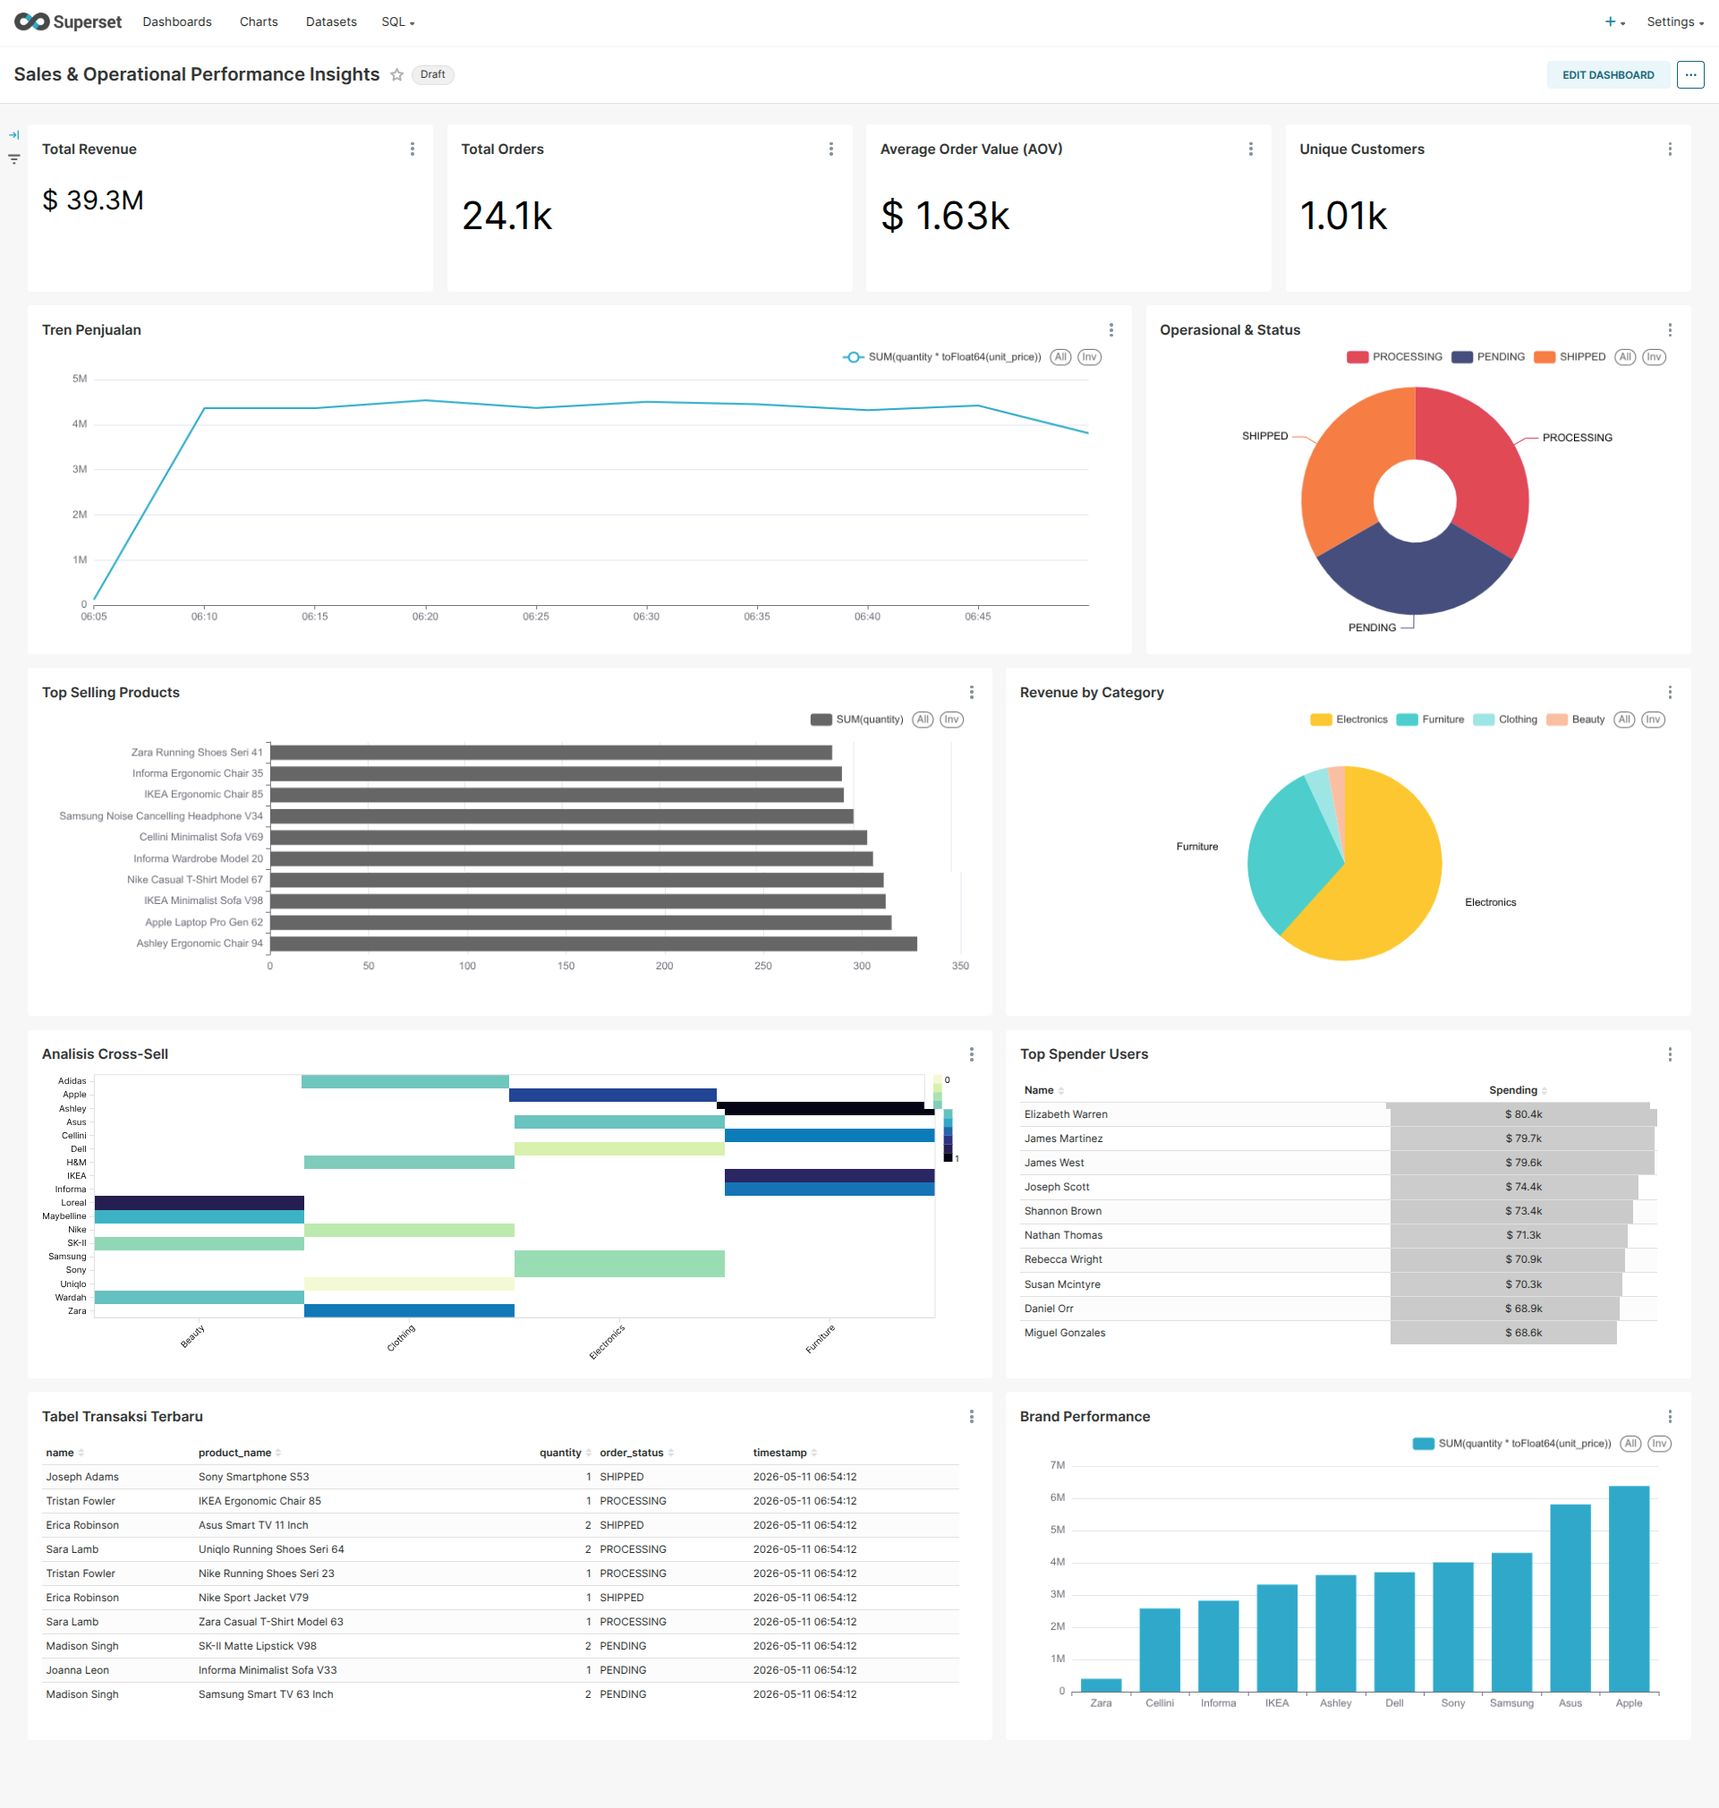
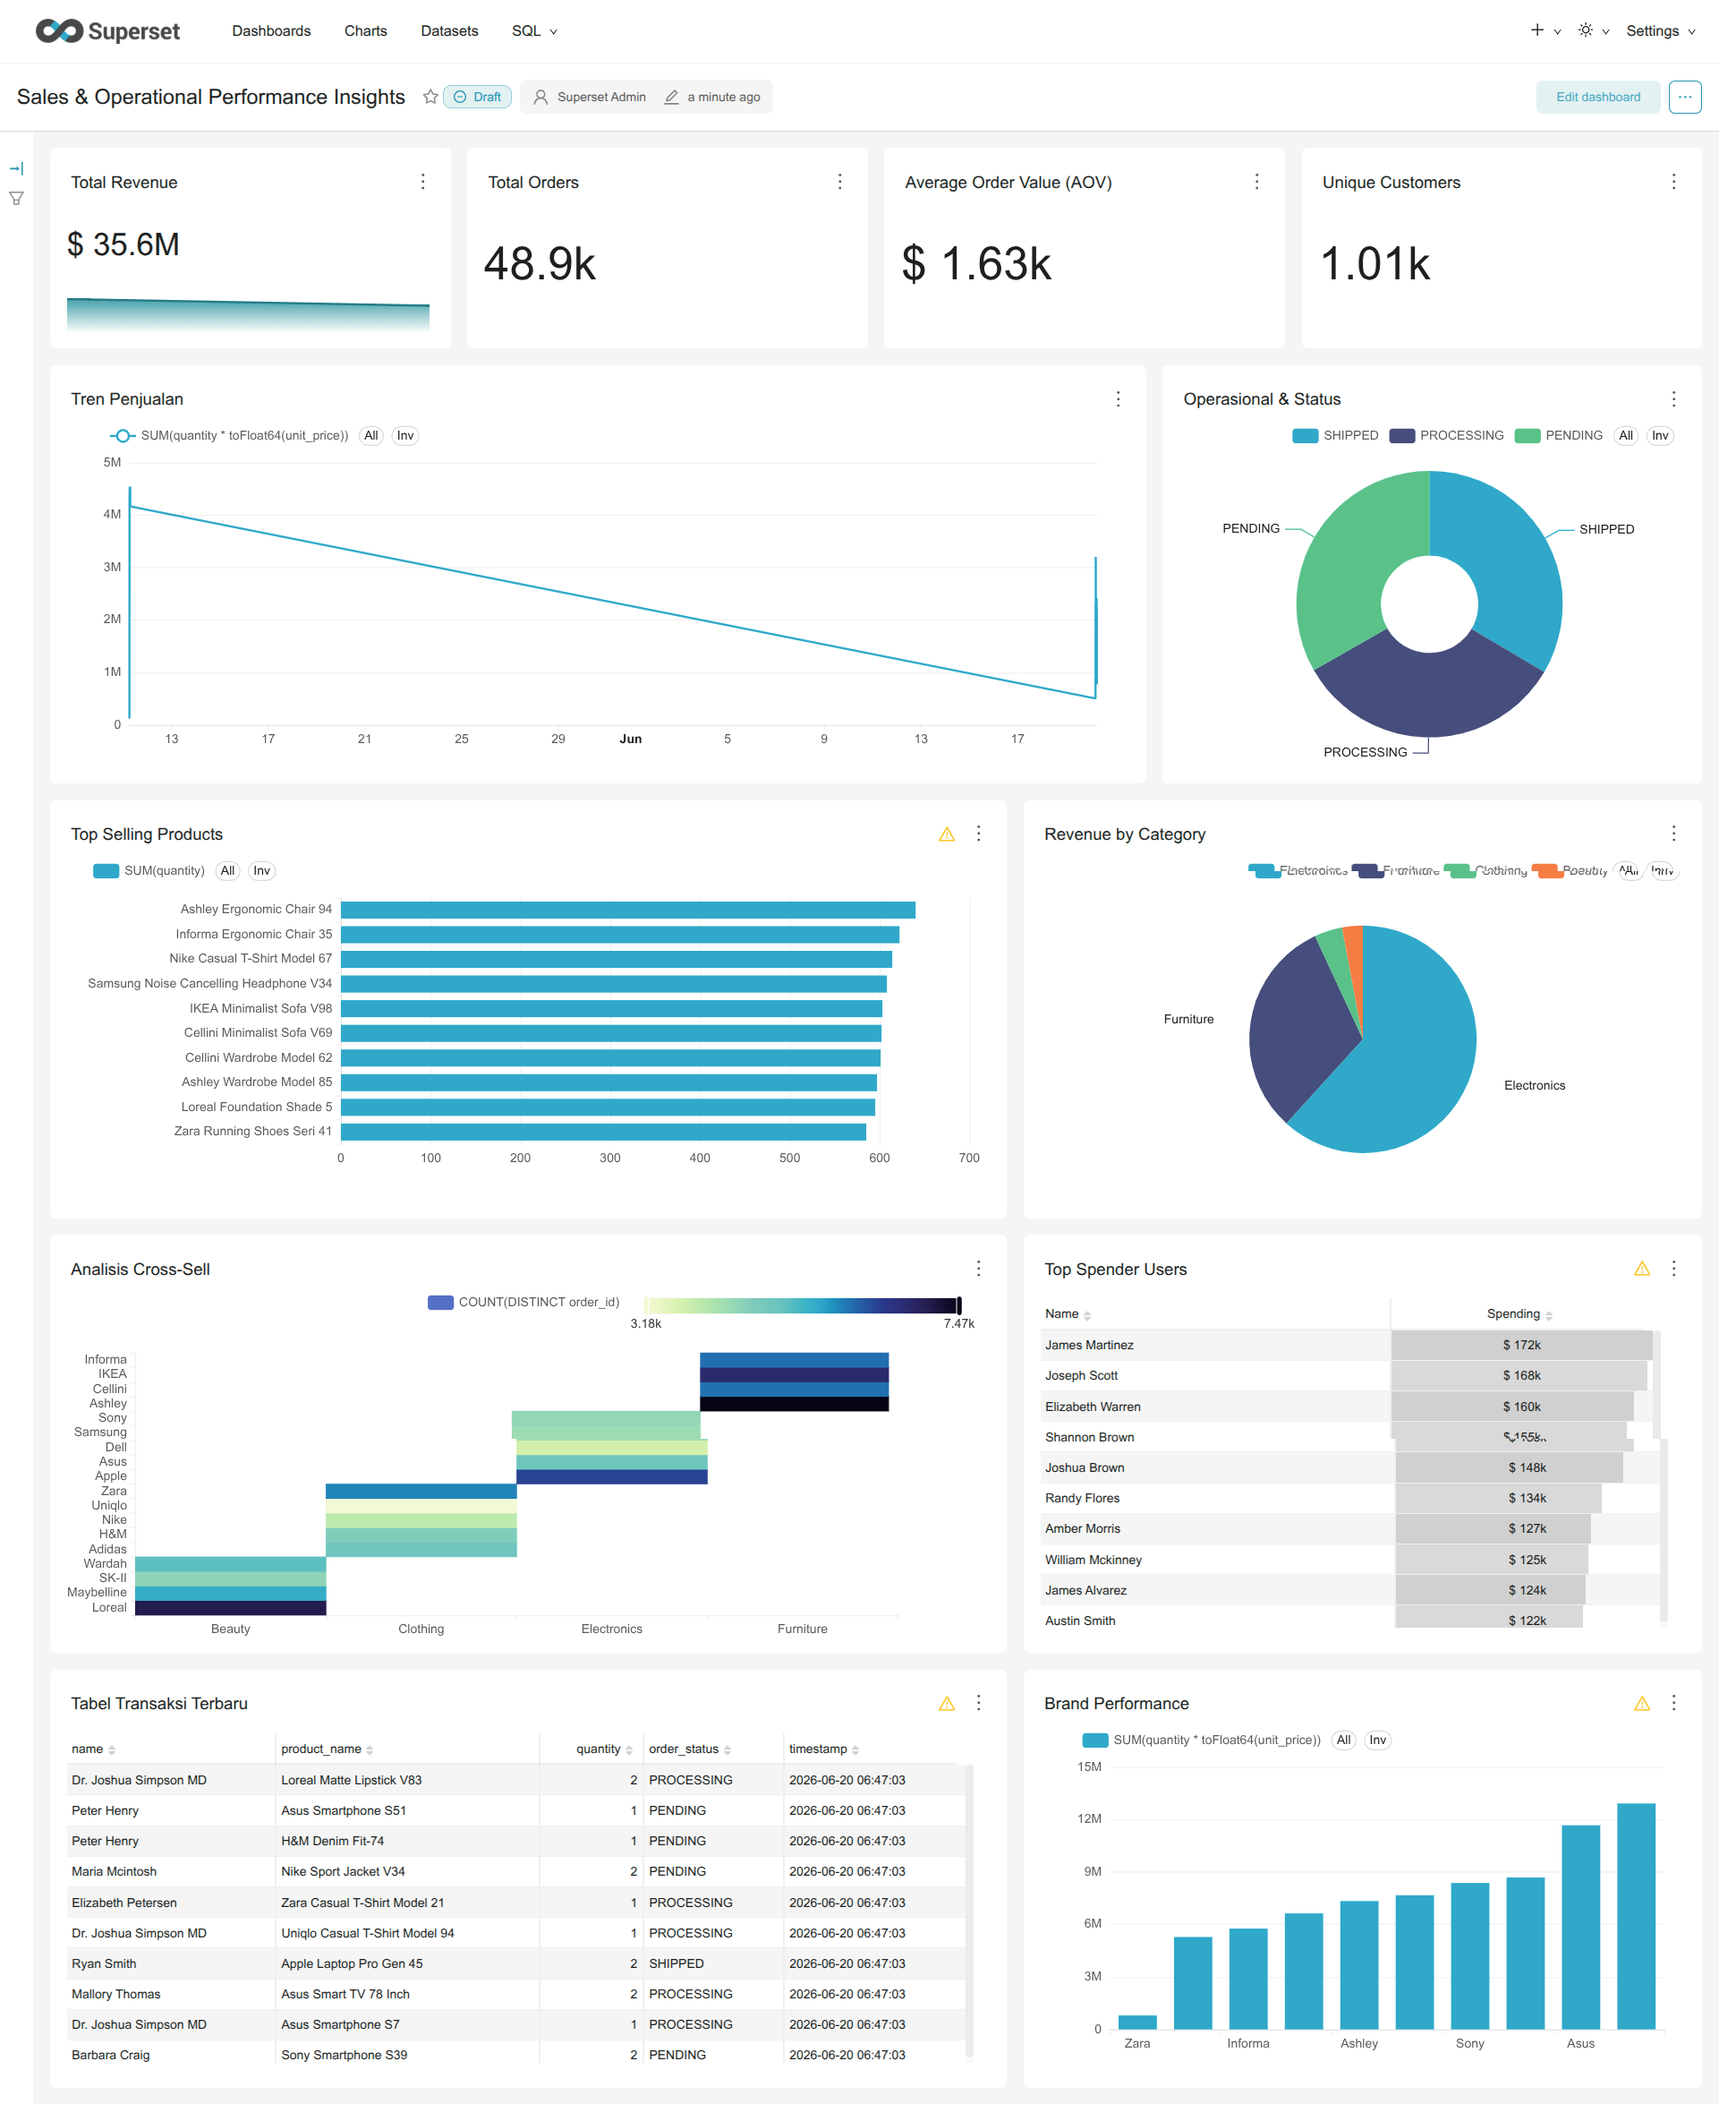
chore: cleanup container names, upgrade Superset to 6.0.0, remove unused k8s (#21)
Summary of changes:
- docker-compose.yml: Remove all container_name entries (use Docker
  Compose default naming for better portability & scalability)
- Dockerfile.superset: Upgrade apache/superset from 3.1.0 to 6.0.0
  and fix clickhouse-connect install path to venv
- Makefile: Update container references to use Compose default names
  (e.g. docker-clickhouse-1, docker-superset-1)
- k8s/: Remove unused Kubernetes manifests (incomplete WIP)
- scripts/apply-all.sh: Remove unused script
- README.md: Update project structure & Superset version
- docs/screenshots/: Update Superset dashboard screenshot

diff --git a/README.md b/README.md
@@ -16,7 +16,7 @@ Proyek ini adalah implementasi **real-time Change Data Capture (CDC)** dari simu
 | **Ingestion** | CDC Ingestor (Go) | Baca WAL → serialize Protobuf → kirim ke Redpanda |
 | **Message Broker** | Redpanda (Kafka) | Buffer pesan dengan 3 partisi |
 | **Warehouse** | ClickHouse | OLAP dengan CDC Event Logs + Materialized Views + Dictionaries |
-| **BI** | Apache Superset | Dashboard analitik dari Gold layer (OBT) |
+| **BI** | Apache Superset 6.0.0 | Dashboard analitik dari Gold layer (OBT) |
 | **Monitoring** | Prometheus + Grafana | Monitoring WAL Lag, resource, dll |
 
 ## 🛠 Tech Stack
@@ -108,10 +108,24 @@ Pipeline ini sudah divalidasi dengan cara:
 ├── services/
 │   ├── cdc-ingestor/          # CDC Ingestor (Go + pglogrepl + Protobuf)
 │   └── order-service/         # FastAPI + Data Generator (Faker)
-├── scripts/sql/               # DDL PostgreSQL & ClickHouse
+├── scripts/
+│   └── sql/                   # DDL PostgreSQL & ClickHouse
 ├── deployments/docker/        # Docker Compose + konfigurasi
-├── k8s/                       # Kubernetes manifests (WIP)
-├── docs/screenshots/          # Screenshot untuk README
+│   ├── docker-compose.yml
+│   ├── Dockerfile.superset    # Superset 6.0.0 + ClickHouse driver
+│   ├── clickhouse-users.xml
+│   ├── init-superset.sh
+│   └── dashboards/
+├── services/
+│   ├── cdc-ingestor/          # CDC Ingestor (Go + pglogrepl + Protobuf)
+│   ├── order-service/         # FastAPI + Data Generator (Faker)
+│   ├── grafana/               # Grafana provisioning & dashboards
+│   └── prometheus.yml         # Prometheus config
+├── docs/
+│   ├── screenshots/           # Screenshot untuk README
+│   ├── system_architecture.md
+│   ├── data_architecture.md
+│   └── ...
 ├── Makefile                   # Command utama
 └── .env                       # Konfigurasi environment
 ```
